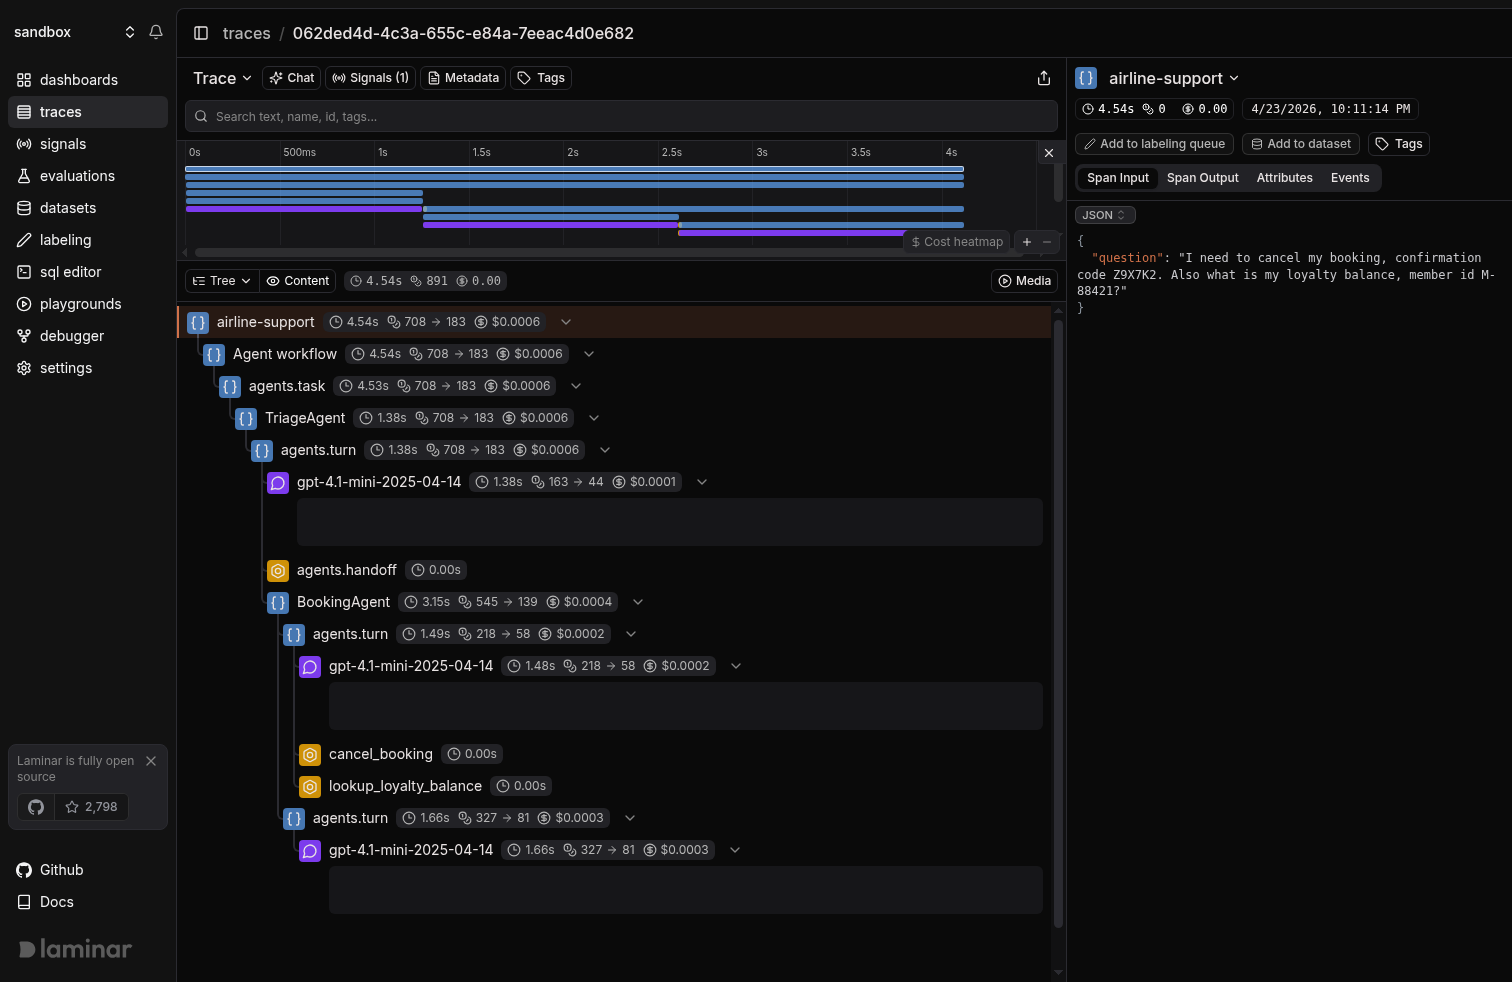
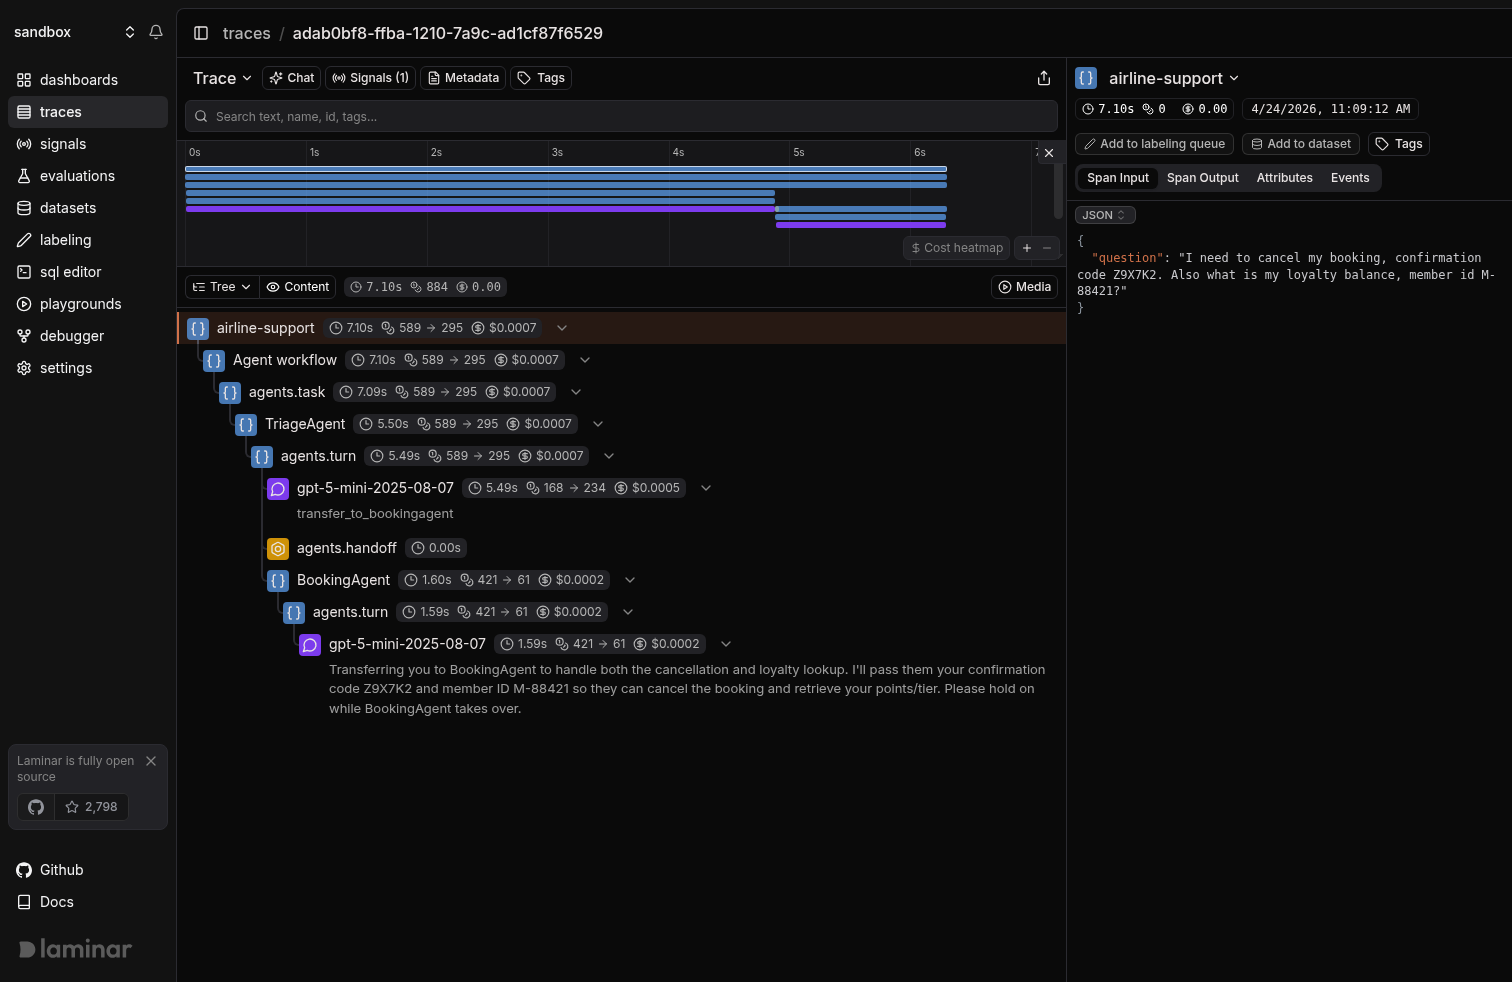
Use gpt-5-mini in OpenAI Agents SDK docs and refresh screenshots
Swap example models to the latest gpt-5-mini and retake the three
trace screenshots against the prod-mode stack per the screenshots
skill (1512x982, timeline visible, Signal events panel closed).

Changed region(s): [[0.1243, 0.1527, 0.7149, 0.947], [0.1865, 0.0305, 0.4041, 0.0611]]

diff --git a/CLAUDE.md b/CLAUDE.md
@@ -78,7 +78,7 @@ This is a Mintlify site. Pages are `.mdx`, navigation lives in `docs.json`, reus
 - Python integration is auto-instrumented by `Laminar.initialize()` when `openai-agents` is importable. No wrapping call like `wrapClaudeAgentQuery` exists. Install is `pip install lmnr openai-agents`; there is no `[openai-agents]` extra.
 - Requires `openai-agents >= 0.7.0` and `lmnr >= 0.7.48`. The instrumentor initializer is gated by `is_package_installed("openai-agents")` in `_instrument_initializers.py`.
 - The integration hooks `agents.tracing.add_trace_processor` (not OTel model wrapping) via `LaminarAgentsTraceProcessor`, and additionally wraps `OpenAIResponsesModel.get_response/stream_response` + the Chat Completions variants to inject the agent's `instructions` into the input messages via a ContextVar. That's why system prompts show up on every LLM span without the user opting in.
-- Span hierarchy: root `@observe` → `Agent workflow` → `agents.task` → `<AgentName>` → `agents.turn` → `gpt-4.1-mini` LLM span. Handoffs appear as a `transfer_to_<agent>` tool call on the source agent followed by an `agents.handoff` span; the destination agent's turns land as siblings under the same parent task — they do NOT nest under the source agent. Recommend tree view in docs when describing handoff structure.
+- Span hierarchy: root `@observe` → `Agent workflow` → `agents.task` → `<AgentName>` → `agents.turn` → `<model>` LLM span (e.g. `gpt-5-mini`). Handoffs appear as a `transfer_to_<agent>` tool call on the source agent followed by an `agents.handoff` span; the destination agent's turns land as siblings under the same parent task — they do NOT nest under the source agent. Recommend tree view in docs when describing handoff structure.
 - For screenshots, the transcript view needs `Runner.run` to produce at least one tool call or handoff to be visually interesting; a single-turn math tutor run fills most of the screenshot with the prompt. Use a multi-agent airline-style demo for the multi-agent screenshots.
 - Default `Laminar.initialize()` targets cloud on port 8443 over gRPC/HTTPS. For local stack testing always pass `base_url="http://localhost", http_port=8000, grpc_port=8001` — otherwise the demos silently send to cloud.
 
